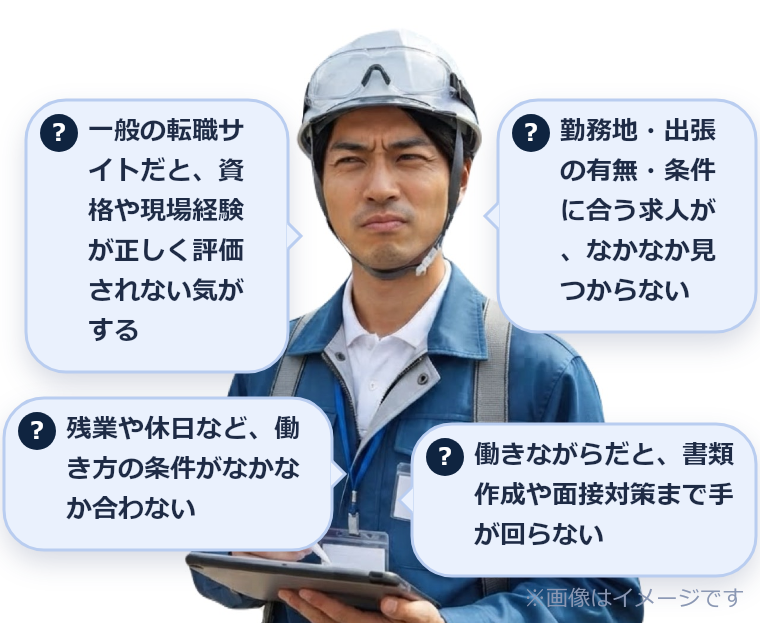
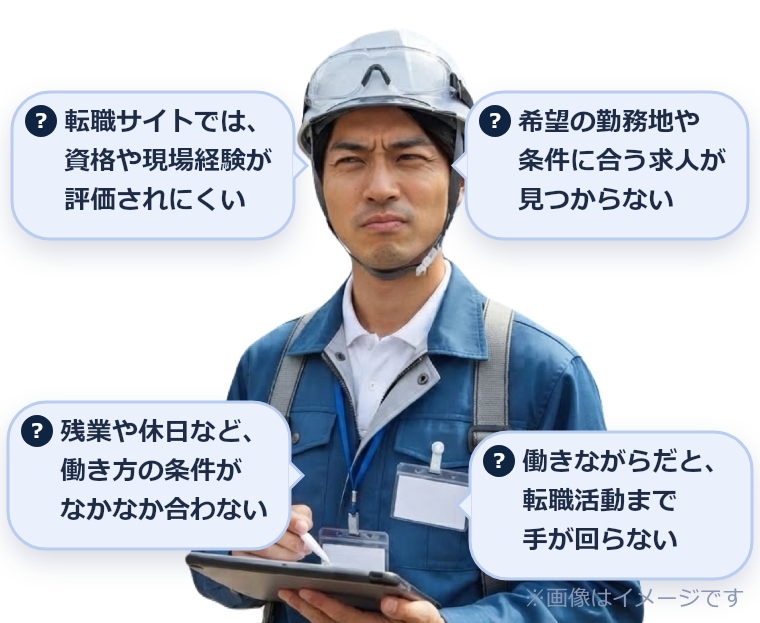
update: /sekou-kanri を修正版HTMLへ差し替え（サービス名表記統一）
- 本文・広告表示の「レバジョブ（施工管理）」→「レバジョブ」（納品修正版）
- worry-scene.png を吹き出しの改行崩れを解消した修正版へ更新
- hero.jpg / consult.jpg は変更なし（納品版と同一）
- フッターの運営者情報は現在公開中の内容を一字一句そのまま維持
  （紹介サービス行の「（施工管理）」も現行表記のまま）
- Meta Pixel 2種の引き継ぎ・画像の絶対パス化は従来どおり

Changed region(s): [[0.0, 0.122, 0.4539, 0.8844], [0.575, 0.122, 0.9987, 0.549], [0.5145, 0.6709, 0.9987, 0.9454]]

diff --git a/public/sekou-kanri/index.html b/public/sekou-kanri/index.html
@@ -264,9 +264,9 @@ fbq('track','PageView');
 <!-- サービス紹介 -->
 <section class="section svc">
   <div class="wrap">
-    <h2><span class="lead">この5つを満たすサービス</span>レバジョブ（施工管理）</h2>
+    <h2><span class="lead">この5つを満たすサービス</span>レバジョブ</h2>
     <div class="card">
-      <div class="name">レバジョブ（施工管理）</div>
+      <div class="name">レバジョブ</div>
       <div class="op">運営：レバレジーズ株式会社</div>
       <p style="color:#d0d9ea;font-size:14px;margin:0 0 4px">施工管理に特化した転職エージェント。専任のキャリアアドバイザーが、一人ひとりの希望に寄り添って転職をサポートします。</p>
       <div class="feat">
@@ -390,7 +390,7 @@ fbq('track','PageView');
 <!-- disclosure -->
 <div class="disc">
   <div class="wrap small">
-    本ページはアフィリエイト広告です。掲載内容は、レバレジーズ株式会社が提供する「レバジョブ（施工管理）」の情報等をもとに作成しています。サービス内容・条件は変更される場合があるため、最新かつ正確な情報は必ず<a href="https://lp.levjob.jp/lp/02/0/e/00/00/00/00" target="_blank" rel="sponsored noopener">公式サイト</a>でご確認ください。
+    本ページはアフィリエイト広告です。掲載内容は、レバレジーズ株式会社が提供する「レバジョブ」の情報等をもとに作成しています。サービス内容・条件は変更される場合があるため、最新かつ正確な情報は必ず<a href="https://lp.levjob.jp/lp/02/0/e/00/00/00/00" target="_blank" rel="sponsored noopener">公式サイト</a>でご確認ください。
   </div>
 </div>
 
